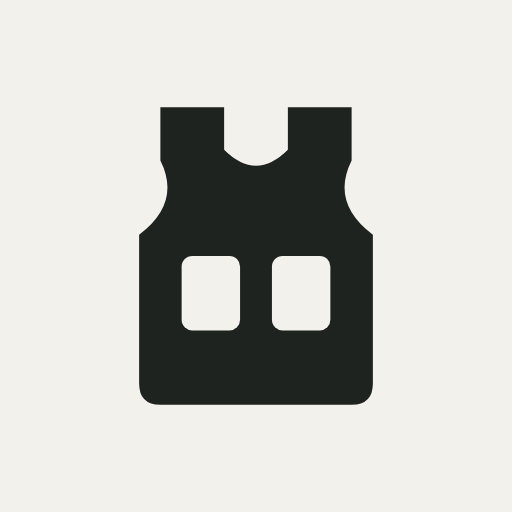
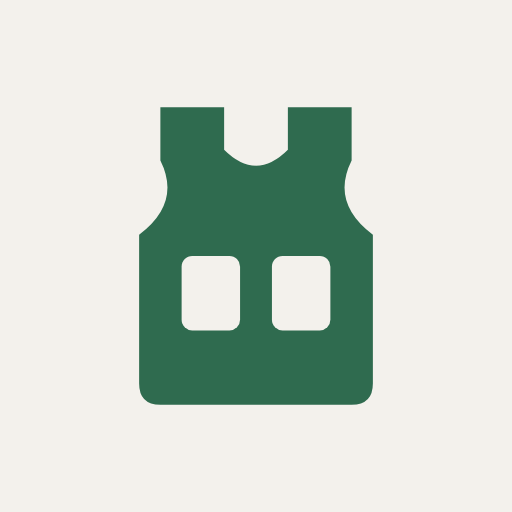
Weighted Walk: green instead of black for the dark elements

Changed region(s): [[0.25, 0.1875, 0.75, 0.8125]]

diff --git a/vest/vest.css b/vest/vest.css
@@ -2,7 +2,7 @@
    Type: Sora for numbers and headings, Inter for the rest. */
 :root {
   --bg:#F3F1EC; --card:#FFFFFF; --ink:#1E2320; --mid:#5F665F; --light:#9AA097; --rule:#E2DFD7;
-  --accent:#2F6B4F; --accent-ink:#FFFFFF; --accent-soft:#E4EEE7; --sand:#D8B56E; --warn:#B5562A; --warn-soft:#F6E7DF;
+  --accent:#2F6B4F; --accent-ink:#FFFFFF; --accent-soft:#E4EEE7; --deep:#24533D; --sand:#D8B56E; --warn:#B5562A; --warn-soft:#F6E7DF;
 }
 * { margin:0; padding:0; box-sizing:border-box; -webkit-tap-highlight-color:transparent; }
 html, body { height:100%; background:var(--bg); color:var(--ink); font-family:Inter,'Helvetica Neue',Arial,sans-serif; -webkit-font-smoothing:antialiased; }
@@ -21,8 +21,8 @@ button { font-family:inherit; }
 #app { max-width:480px; margin:0 auto; min-height:100vh; min-height:100dvh; display:flex; flex-direction:column; padding-bottom:env(safe-area-inset-bottom); }
 .topbar { display:flex; align-items:center; justify-content:space-between; padding:14px 18px 12px; padding-top:max(14px, env(safe-area-inset-top)); border-bottom:1px solid var(--rule); background:var(--bg); }
 .brand { display:inline-flex; align-items:center; gap:9px; font-family:Sora,sans-serif; font-weight:800; font-size:17px; text-decoration:none; letter-spacing:-.01em; }
-.mark { width:20px; height:20px; color:var(--ink); display:inline-block; }
-.pill { background:var(--ink); color:var(--bg); font-size:12.5px; font-weight:600; padding:5px 11px; border-radius:20px; font-variant-numeric:tabular-nums; }
+.mark { width:20px; height:20px; color:var(--accent); display:inline-block; }
+.pill { background:var(--accent); color:var(--accent-ink); font-size:12.5px; font-weight:600; padding:5px 11px; border-radius:20px; font-variant-numeric:tabular-nums; }
 main { flex:1; overflow-y:auto; padding:18px 16px 96px; }
 .view.hidden { display:none; }
 
@@ -43,7 +43,7 @@ input:focus, select:focus { outline:none; border-color:var(--accent); }
 .seg.wide { width:100%; }
 .seg.wide button { flex:1; padding:11px 0; }
 .seg button { border:none; background:var(--card); padding:0 14px; font-weight:600; font-size:15px; color:var(--mid); cursor:pointer; }
-.seg button.on { background:var(--ink); color:var(--bg); }
+.seg button.on { background:var(--accent); color:var(--accent-ink); }
 
 .btn { display:inline-flex; align-items:center; justify-content:center; gap:6px; font-weight:700; font-size:15px; padding:13px 16px; border-radius:12px; border:none; cursor:pointer; text-decoration:none; width:100%; }
 .btn:focus-visible { outline:3px solid var(--sand); outline-offset:2px; }
@@ -52,7 +52,7 @@ input:focus, select:focus { outline:none; border-color:var(--accent); }
 .btn-row { display:flex; gap:8px; margin:10px 0 4px; }
 .btn-row .btn { flex:1; width:auto; }
 
-.result-card { background:var(--ink); color:var(--bg); border-radius:16px; padding:16px 18px 14px; margin:14px 0 4px; }
+.result-card { background:var(--deep); color:#F3F1EC; border-radius:16px; padding:16px 18px 14px; margin:14px 0 4px; }
 .result-card .eyebrow { color:var(--light); }
 .rc-top { display:flex; justify-content:space-between; }
 .rc-hero { display:flex; align-items:baseline; gap:10px; margin:10px 0 12px; }
@@ -60,9 +60,9 @@ input:focus, select:focus { outline:none; border-color:var(--accent); }
 .rc-sub { font-size:13px; color:var(--light); }
 .ladder { display:grid; grid-template-columns:1fr 1fr 1fr; gap:6px; }
 .ladder > div { background:rgba(255,255,255,.07); border-radius:10px; padding:8px 10px; display:flex; flex-direction:column; gap:2px; }
-.ladder .target { background:var(--accent); }
+.ladder .target { background:var(--sand); color:var(--ink); }
 .l-lab { font-size:10.5px; letter-spacing:.1em; text-transform:uppercase; color:var(--light); }
-.ladder .target .l-lab { color:rgba(255,255,255,.75); }
+.ladder .target .l-lab { color:rgba(30,35,32,.7); }
 .ladder b { font-family:Sora,sans-serif; font-size:16px; font-variant-numeric:tabular-nums; }
 .rc-note { font-size:12.5px; color:var(--light); margin-top:12px; line-height:1.45; }
 
@@ -112,7 +112,7 @@ input:focus, select:focus { outline:none; border-color:var(--accent); }
 .pill-chk input { accent-color:var(--accent); }
 .effort { display:flex; gap:6px; }
 .effort button { flex:1; padding:10px 0; border:1.5px solid var(--rule); border-radius:10px; background:var(--card); font-weight:700; font-size:15px; cursor:pointer; }
-.effort button.on { background:var(--ink); color:var(--bg); border-color:var(--ink); }
+.effort button.on { background:var(--accent); color:var(--accent-ink); border-color:var(--accent); }
 .done-card { text-align:center; padding:26px 16px; }
 .done-card .big { font-size:34px; }
 
@@ -130,7 +130,7 @@ input:focus, select:focus { outline:none; border-color:var(--accent); }
 .log-list li { display:flex; justify-content:space-between; padding:9px 4px; border-bottom:1px solid var(--rule); font-size:13.5px; font-variant-numeric:tabular-nums; }
 .log-list li span:last-child { color:var(--mid); }
 
-.overlay { position:fixed; inset:0; background:rgba(30,35,32,.6); display:flex; align-items:center; justify-content:center; padding:20px; z-index:20; }
+.overlay { position:fixed; inset:0; background:rgba(36,83,61,.55); display:flex; align-items:center; justify-content:center; padding:20px; z-index:20; }
 .overlay-card { background:var(--bg); border-radius:18px; padding:20px 18px 16px; width:100%; max-width:420px; max-height:90vh; overflow-y:auto; }
 .check-list label { display:flex; gap:10px; align-items:flex-start; padding:9px 0; border-bottom:1px solid var(--rule); font-size:14px; line-height:1.4; }
 .check-list input { margin-top:3px; accent-color:var(--accent); }

diff --git a/vest/vest.js b/vest/vest.js
@@ -104,12 +104,12 @@ $("bw").addEventListener("keydown", (e) => { if (e.key === "Enter") runCalc(); }
 async function shareCard() {
   if (!lastCalc) return;
   const c = $("share-canvas"), x = c.getContext("2d");
-  x.fillStyle = "#1E2320"; x.fillRect(0, 0, 1080, 1350);
+  x.fillStyle = "#24533D"; x.fillRect(0, 0, 1080, 1350);
   x.fillStyle = "#9AA097"; x.font = "600 30px Inter, sans-serif"; x.textAlign = "center";
   x.fillText("HOW HEAVY SHOULD YOUR VEST BE?", 540, 150);
   x.fillStyle = "#F3F1EC"; x.font = "700 60px Sora, sans-serif";
   x.fillText(`For ${lastCalc.display} ${lastCalc.unit}`, 540, 250);
-  x.fillStyle = "#2F6B4F"; x.fillRect(120, 320, 840, 4);
+  x.fillStyle = "#D8B56E"; x.fillRect(120, 320, 840, 4);
   const rows = [["Weeks 1–2 · start", 5.0], ["Weeks 3–5", 6.5], ["Weeks 6–7", 8.0], ["Week 8 · target", 10.0]];
   let y = 450;
   for (const [lab, pct] of rows) {
